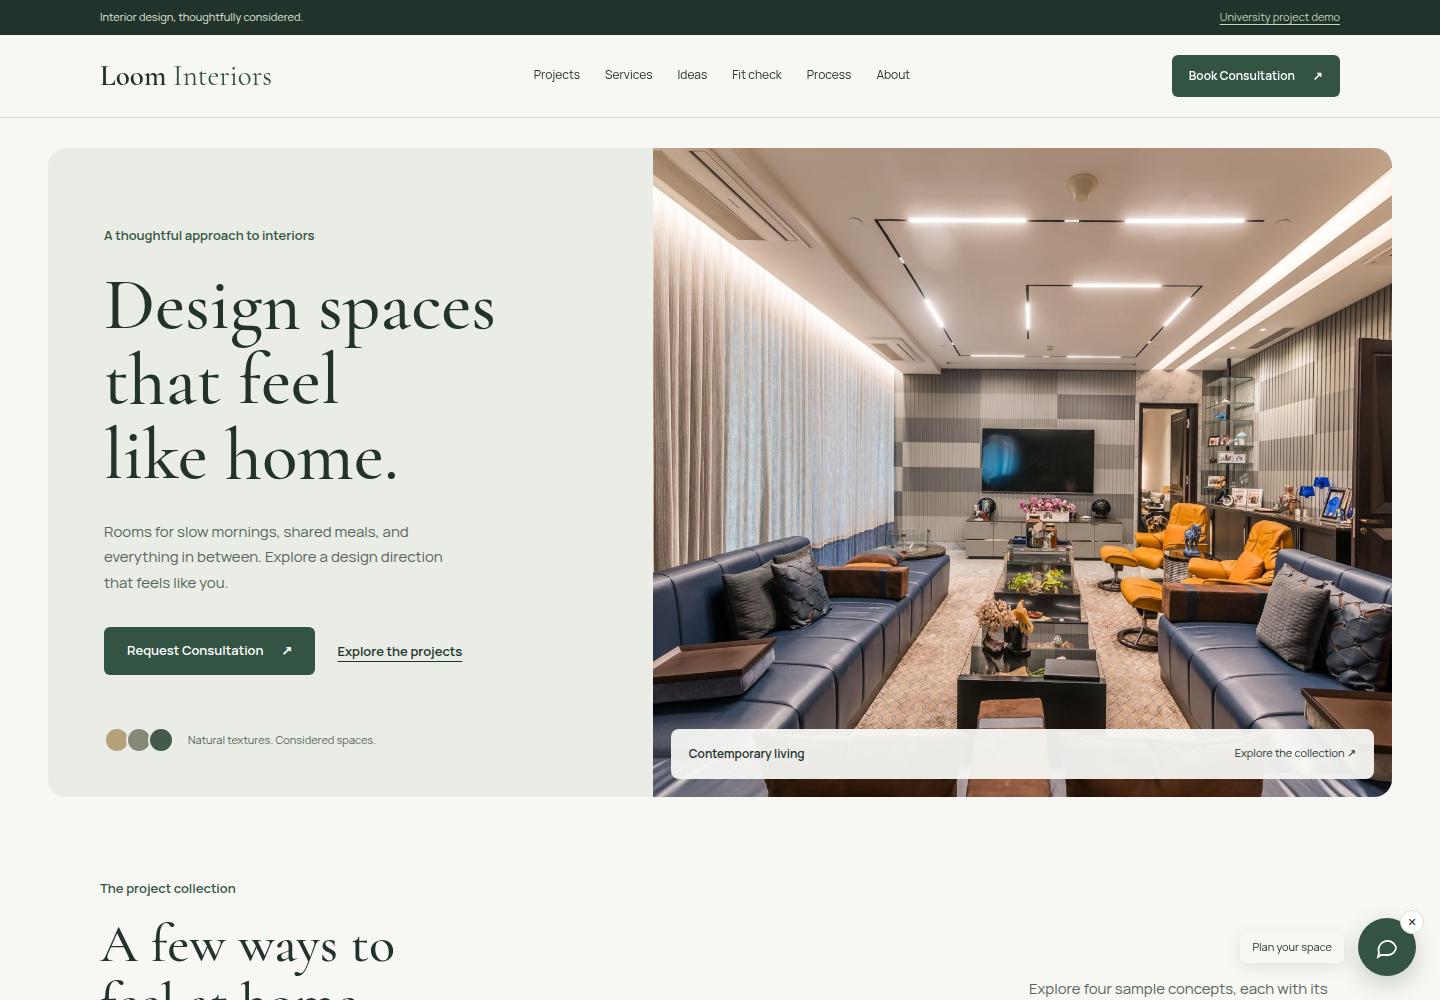
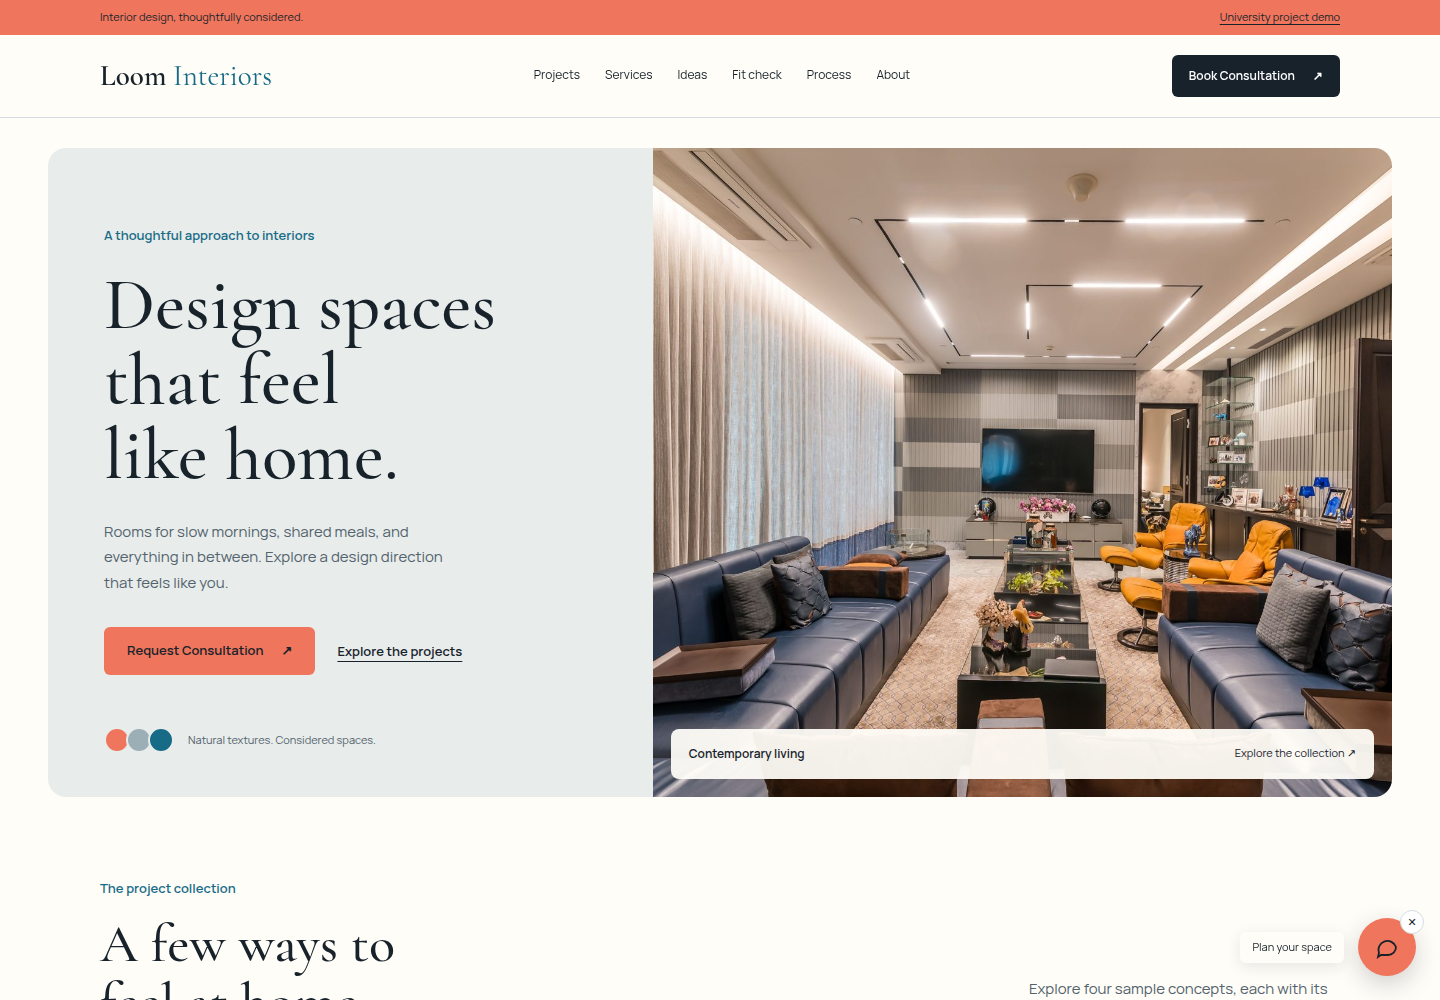
Restore preferred coral and blue palette

diff --git a/css/style.css b/css/style.css
@@ -1,13 +1,13 @@
 @import url('https://fonts.googleapis.com/css2?family=Cormorant+Garamond:wght@400;500;600&family=Manrope:wght@400;500;600;700&display=swap');
 
 :root {
-  --paper: #f7f8f4;
-  --stone: #e9ede5;
-  --ink: #22332b;
-  --muted: #57655c;
-  --forest: #345443;
-  --brass: #b5a17b;
-  --line: #d6ded3;
+  --paper: #fffdf8;
+  --stone: #e8eceb;
+  --ink: #17222a;
+  --muted: #53636d;
+  --blue: #176b87;
+  --coral: #ef765d;
+  --line: #d4dcdf;
   --serif: 'Cormorant Garamond', Georgia, serif;
   --sans: 'Manrope', Arial, sans-serif;
   --content: 1240px;
@@ -25,35 +25,37 @@ h1, h2, h3 { font-family: var(--serif); font-weight: 500; line-height: 1.08; tex
 h2 { font-size: clamp(36px, 4vw, 54px); }
 h3 { font-size: 28px; }
 p { text-wrap: pretty; }
-::selection { background: #d0d9c3; }
-:focus-visible { outline: 3px solid #87733e; outline-offset: 5px; }
+::selection { background: #f4c5b9; }
+:focus-visible { outline: 3px solid #176b87; outline-offset: 5px; }
 section[id], main[id] { scroll-margin-top: 100px; }
 section { max-width: var(--content); padding: 88px 0; margin: 0 auto; }
 main > section { width: calc(100% - 96px); }
 .skip-link { position: fixed; top: -100px; left: 16px; z-index: 50; background: white; padding: 12px 20px; }
 .skip-link:focus { top: 12px; }
-.kicker, .hero-eyebrow { color: var(--forest); font-size: 13px; font-weight: 600; margin-bottom: 16px; }
+.kicker, .hero-eyebrow { color: var(--blue); font-size: 13px; font-weight: 600; margin-bottom: 16px; }
 .section-head { display: flex; gap: 48px; align-items: flex-end; justify-content: space-between; margin-bottom: 36px; }
 .section-head h2 { max-width: 17ch; }
 .section-head > p { max-width: 34ch; color: var(--muted); margin-bottom: 5px; }
 .btn-coral, .btn-dark, .nav-contact, .btn-light, .btn-ghost { display: inline-flex; justify-content: center; align-items: center; gap: 18px; min-height: 48px; padding: 13px 22px; border-radius: 6px; border: 1px solid transparent; font: 600 13px/1.5 var(--sans); text-align: center; transition: background .16s, color .16s; }
-.btn-coral, .btn-dark, .nav-contact { background: var(--forest); color: white; }
-.btn-coral:hover, .btn-dark:hover, .nav-contact:hover { background: #223e30; }
+.btn-coral { background: var(--coral); color: var(--ink); }
+.btn-dark, .nav-contact { background: var(--ink); color: white; }
+.btn-coral:hover { background: #e7674e; }
+.btn-dark:hover, .nav-contact:hover { background: var(--blue); }
 .btn-ghost { color: var(--ink); border-color: var(--line); background: transparent; }
 .btn-ghost:hover { background: var(--stone); }
 .btn-light { color: var(--ink); background: var(--paper); }
-.btn-light:hover { background: #dce4d6; }
+.btn-light:hover { background: #dde5e9; }
 .hero-secondary, .text-button { text-decoration: underline; text-underline-offset: 5px; font-size: 13px; font-weight: 600; }
-.text-button { border: 0; background: transparent; color: var(--forest); padding: 8px 0; }
-.offer-bar { background: var(--ink); color: #e6eadf; display: flex; justify-content: space-between; padding: 8px max(48px, calc((100% - var(--content)) / 2)); font-size: 11px; }
-.offer-bar a { color: #c8d6bc; text-decoration: underline; text-underline-offset: 3px; }
-header { position: sticky; top: 0; z-index: 20; background: rgba(247,248,244,.97); border-bottom: 1px solid var(--line); }
+.text-button { border: 0; background: transparent; color: var(--blue); padding: 8px 0; }
+.offer-bar { background: var(--coral); color: var(--ink); display: flex; justify-content: space-between; padding: 8px max(48px, calc((100% - var(--content)) / 2)); font-size: 11px; }
+.offer-bar a { color: var(--ink); text-decoration: underline; text-underline-offset: 3px; }
+header { position: sticky; top: 0; z-index: 20; background: rgba(255,253,248,.97); border-bottom: 1px solid var(--line); }
 .nav { max-width: var(--content); margin: auto; display: flex; align-items: center; justify-content: space-between; gap: 32px; padding: 20px 0; }
 .wordmark { font: 600 29px/1 var(--serif); white-space: nowrap; }
-.wordmark em { font-style: normal; font-weight: 400; color: var(--forest); }
+.wordmark em { font-style: normal; font-weight: 400; color: var(--blue); }
 .nav-links { display: flex; gap: 25px; font-size: 12px; }
 .nav-links a { padding: 7px 0; border-bottom: 1px solid transparent; }
-.nav-links a:hover, .nav-links a[aria-current] { border-color: var(--forest); }
+.nav-links a:hover, .nav-links a[aria-current] { border-color: var(--blue); }
 .nav-actions { display: flex; align-items: center; gap: 12px; }
 .nav-contact { min-height: 42px; padding: 10px 16px; font-size: 12px; white-space: nowrap; }
 .menu-btn { display: none; width: 42px; height: 42px; border: 1px solid var(--line); border-radius: 6px; background: transparent; color: var(--ink); font-size: 22px; }
@@ -65,12 +67,12 @@ header { position: sticky; top: 0; z-index: 20; background: rgba(247,248,244,.97
 .hero-cta { display: flex; align-items: center; flex-wrap: wrap; gap: 22px; margin: 32px 0; }
 .hero-footnote { display: flex; align-items: center; gap: 14px; margin-top: auto; color: var(--muted); font-size: 11px; padding-top: 20px; }
 .material-samples { display: flex; padding-left: 4px; }
-.material-samples i { height: 26px; width: 26px; border-radius: 50%; background: #b5a17b; border: 2px solid var(--stone); margin-left: -4px; }
-.material-samples i:nth-child(2) { background: #858975; }
-.material-samples i:nth-child(3) { background: #455b49; }
+.material-samples i { height: 26px; width: 26px; border-radius: 50%; background: #ef765d; border: 2px solid var(--stone); margin-left: -4px; }
+.material-samples i:nth-child(2) { background: #9caeb6; }
+.material-samples i:nth-child(3) { background: #176b87; }
 .hero-image { position: relative; min-width: 0; }
 .hero-image > img { height: 100%; object-fit: cover; }
-.hero-image-caption { position: absolute; bottom: 18px; left: 18px; right: 18px; padding: 15px 18px; background: rgba(247,248,244,.94); border-radius: 8px; display: flex; justify-content: space-between; align-items: center; gap: 12px; font-size: 12px; }
+.hero-image-caption { position: absolute; bottom: 18px; left: 18px; right: 18px; padding: 15px 18px; background: rgba(255,253,248,.94); border-radius: 8px; display: flex; justify-content: space-between; align-items: center; gap: 12px; font-size: 12px; }
 .hero-image-caption > span { font-weight: 600; }
 .hero-image-caption a { font-size: 11px; }
 #portfolio { padding-top: 8px; }
@@ -81,13 +83,13 @@ header { position: sticky; top: 0; z-index: 20; background: rgba(247,248,244,.97
 .project:nth-child(3) { height: 340px; }
 .project:nth-child(4) { height: 370px; }
 .project-photo { height: 100%; object-fit: cover; }
-.project::after { content: ''; position: absolute; inset: 38% 0 0; background: linear-gradient(transparent, rgba(10,20,14,.82)); pointer-events: none; }
+.project::after { content: ''; position: absolute; inset: 38% 0 0; background: linear-gradient(transparent, rgba(10,18,24,.82)); pointer-events: none; }
 .project-label { position: absolute; bottom: 24px; left: 26px; right: 26px; color: white; z-index: 1; }
 .project-label .name { font: 500 30px/1.2 var(--serif); margin-bottom: 5px; }
-.project-label .loc { font-size: 11px; color: #eef2e8; }
-.view-project { display: inline-block; margin-top: 16px; background: none; color: white; padding: 4px 0; border: 0; border-bottom: 1px solid #c9d7bf; font: 600 12px var(--sans); }
+.project-label .loc { font-size: 11px; color: #edf2f5; }
+.view-project { display: inline-block; margin-top: 16px; background: none; color: white; padding: 4px 0; border: 0; border-bottom: 1px solid #e1c0b6; font: 600 12px var(--sans); }
 .project-dialog { width: min(820px, calc(100% - 32px)); max-height: calc(100dvh - 32px); overflow: auto; margin: auto; border: 0; border-radius: 16px; padding: 0; color: var(--ink); background: var(--paper); }
-.project-dialog::backdrop { background: rgba(15,26,18,.65); }
+.project-dialog::backdrop { background: rgba(15,25,32,.65); }
 .project-dialog > img { height: 340px; object-fit: cover; }
 .dialog-close { position: absolute; top: 16px; right: 16px; width: 42px; height: 42px; background: white; color: var(--ink); border: 0; border-radius: 50%; font-size: 28px; }
 .dialog-copy { padding: 32px; }
@@ -102,7 +104,7 @@ header { position: sticky; top: 0; z-index: 20; background: rgba(247,248,244,.97
 .service-copy h3 { font-size: 27px; display: flex; justify-content: space-between; align-items: center; }
 .service-copy h3 span { font-family: var(--sans); font-size: 18px; }
 .service-copy p { color: var(--muted); font-size: 12px; margin-top: 8px; }
-.service-photo-card:hover h3 { color: #657746; }
+.service-photo-card:hover h3 { color: #176b87; }
 .trending-section { background: var(--stone); border-radius: 18px; padding: 48px; }
 .trending-head { display: grid; grid-template-columns: 1fr 1fr; column-gap: 48px; }
 .trending-head .kicker { grid-column: 1 / -1; margin: 0; }
@@ -115,54 +117,54 @@ header { position: sticky; top: 0; z-index: 20; background: rgba(247,248,244,.97
 .idea-copy h3 { font-size: 28px; }
 .idea-copy p { color: var(--muted); font-size: 12px; margin: 12px 0 16px; }
 .idea-copy a { font-size: 12px; font-weight: 600; text-decoration: underline; text-underline-offset: 5px; }
-main > .fit-check { width: 100%; max-width: none; background: var(--ink); color: #f2f5eb; margin-top: 88px; padding: 72px max(48px, calc((100% - var(--content)) / 2)); }
+main > .fit-check { width: 100%; max-width: none; background: var(--ink); color: #f7f7f4; margin-top: 88px; padding: 72px max(48px, calc((100% - var(--content)) / 2)); }
 .fit-check-grid { display: grid; grid-template-columns: .8fr 1.2fr; gap: 64px; align-items: center; }
-.fit-check .kicker { color: #bfd1ad; }
+.fit-check .kicker { color: #efaa99; }
 .fit-check h2 { max-width: 12ch; font-size: clamp(40px, 4.2vw, 60px); margin-bottom: 24px; }
-.fit-check-copy > p { color: #d1dacb; max-width: 40ch; font-size: 14px; }
+.fit-check-copy > p { color: #cbd8de; max-width: 40ch; font-size: 14px; }
 .fit-check-actions { display: flex; flex-wrap: wrap; align-items: center; gap: 16px; margin-top: 28px; }
-.fit-check-actions .btn-coral { background: #d4dfc7; color: var(--ink); }
-.fit-check-actions .btn-ghost { color: white; border-color: #899782; }
-.camera-note { font-size: 11px; color: #d1dacb; }
-.camera-status { margin-top: 16px; color: #e6d6a4 !important; font-size: 12px !important; }
-.camera-stage { height: 400px; background: #53654e; border-radius: 14px; overflow: hidden; position: relative; }
+.fit-check-actions .btn-coral { background: #ef765d; color: var(--ink); }
+.fit-check-actions .btn-ghost { color: white; border-color: #91a7b1; }
+.camera-note { font-size: 11px; color: #cbd8de; }
+.camera-status { margin-top: 16px; color: #f6bcab !important; font-size: 12px !important; }
+.camera-stage { height: 400px; background: #29434a; border-radius: 14px; overflow: hidden; position: relative; }
 .camera-feed, .camera-overlay { position: absolute; inset: 0; width: 100%; height: 100%; object-fit: cover; }
 .camera-feed { opacity: 0; }
 .camera-stage--ready .camera-feed { opacity: 1; }
 .camera-overlay { opacity: 1; }
 .camera-stage--ready .camera-overlay { opacity: .65; mix-blend-mode: color; }
-.camera-placeholder { position: absolute; inset: 0; z-index: 2; background: rgba(20,30,20,.72); display: flex; flex-direction: column; align-items: center; justify-content: center; gap: 16px; }
-.camera-stage-label { position: absolute; z-index: 3; bottom: 16px; left: 16px; right: 16px; background: rgba(247,248,244,.95); color: var(--ink); border-radius: 8px; padding: 14px 16px; display: flex; justify-content: space-between; gap: 16px; font-size: 12px; }
+.camera-placeholder { position: absolute; inset: 0; z-index: 2; background: rgba(20,30,38,.72); display: flex; flex-direction: column; align-items: center; justify-content: center; gap: 16px; }
+.camera-stage-label { position: absolute; z-index: 3; bottom: 16px; left: 16px; right: 16px; background: rgba(255,253,248,.95); color: var(--ink); border-radius: 8px; padding: 14px 16px; display: flex; justify-content: space-between; gap: 16px; font-size: 12px; }
 .camera-stage-label strong { font-weight: 600; }
 .look-picker { display: grid; grid-template-columns: repeat(4, 1fr); gap: 16px; margin-top: 32px; }
-.look-option { display: flex; align-items: center; gap: 14px; padding: 12px; background: #304338; color: #edf2e7; border: 1px solid #53694f; border-radius: 8px; text-align: left; font-size: 12px; }
+.look-option { display: flex; align-items: center; gap: 14px; padding: 12px; background: #253943; color: #eef3f5; border: 1px solid #506975; border-radius: 8px; text-align: left; font-size: 12px; }
 .look-option img { width: 48px; height: 48px; border-radius: 5px; object-fit: cover; }
-.look-option.active { background: #e0e7d6; color: var(--ink); border-color: #e0e7d6; }
-.look-summary { display: flex; justify-content: space-between; align-items: center; gap: 20px; margin-top: 24px; font-size: 13px; color: #d1dacb; }
+.look-option.active { background: #f4b2a1; color: var(--ink); border-color: #f4b2a1; }
+.look-summary { display: flex; justify-content: space-between; align-items: center; gap: 20px; margin-top: 24px; font-size: 13px; color: #cbd8de; }
 .process-roadmap { display: grid; grid-template-columns: repeat(5, 1fr); gap: 22px; }
 .process-step { min-width: 0; }
 .process-visual { height: 160px; border-radius: 10px; overflow: hidden; }
 .process-visual img { height: 100%; object-fit: cover; }
 .process-body { padding-top: 20px; }
-.process-num { font-size: 11px; color: var(--forest); margin-bottom: 10px; }
+.process-num { font-size: 11px; color: var(--blue); margin-bottom: 10px; }
 .process-step h3 { font-size: 25px; margin-bottom: 12px; }
 .process-step p { color: var(--muted); font-size: 12px; }
 #philosophy { padding-top: 0; }
 .philosophy { display: grid; grid-template-columns: 1fr 1.1fr; gap: 80px; padding-top: 16px; }
-.big-quote { font: 400 36px/1.25 var(--serif); padding-left: 28px; border-left: 2px solid var(--brass); }
+.big-quote { font: 400 36px/1.25 var(--serif); padding-left: 28px; border-left: 2px solid var(--coral); }
 .philosophy .body p { color: var(--muted); font-size: 13px; margin-bottom: 16px; }
 main > .consult { width: 100%; max-width: none; background: var(--stone); padding: 80px max(48px, calc((100% - var(--content)) / 2)); }
 .consult-grid { display: grid; grid-template-columns: .9fr 1.1fr; gap: 100px; align-items: start; }
 .consult h2 { max-width: 13ch; margin-bottom: 24px; }
 .consult-grid > div > p { color: var(--muted); max-width: 42ch; }
-.demo-note { margin-top: 28px; font-size: 12px; border-left: 2px solid var(--brass); padding-left: 16px; }
+.demo-note { margin-top: 28px; font-size: 12px; border-left: 2px solid var(--coral); padding-left: 16px; }
 .consult-form { background: var(--paper); border: 1px solid var(--line); border-radius: 14px; padding: 32px; display: grid; gap: 22px; }
 .field label { display: block; font-size: 12px; font-weight: 600; margin-bottom: 8px; }
-.field input { width: 100%; min-width: 0; border: 1px solid #ccd5c7; background: white; color: var(--ink); border-radius: 6px; height: 48px; padding: 10px 14px; font-size: 13px; }
-.field input::placeholder { color: #667060; }
+.field input { width: 100%; min-width: 0; border: 1px solid #cbd6db; background: white; color: var(--ink); border-radius: 6px; height: 48px; padding: 10px 14px; font-size: 13px; }
+.field input::placeholder { color: #64737b; }
 .field input:user-invalid { border-color: #ac553e; }
 .consult-form > .btn-dark { width: 100%; }
-.form-result { border: 1px solid #bdcdb0; border-radius: 8px; background: #e9efe3; padding: 18px; font-size: 13px; }
+.form-result { border: 1px solid #b4cbd5; border-radius: 8px; background: #e9f0f3; padding: 18px; font-size: 13px; }
 .form-result p { margin: 8px 0 12px; }
 .form-result button { margin-top: 8px; padding: 10px 14px; }
 .form-result button + button { margin-left: 8px; }
@@ -171,41 +173,41 @@ main > .consult { width: 100%; max-width: none; background: var(--stone); paddin
 .notes-grid { display: grid; grid-template-columns: 1fr 1fr; gap: 48px; margin-bottom: 16px; }
 .notes-grid h3 { font-size: 25px; margin-bottom: 12px; }
 .notes-grid p { font-size: 12px; color: var(--muted); max-width: 65ch; }
-footer { background: var(--ink); color: #e9efdf; padding: 56px max(48px, calc((100% - var(--content)) / 2)) 24px; }
+footer { background: var(--ink); color: #f0f2f4; padding: 56px max(48px, calc((100% - var(--content)) / 2)) 24px; }
 .footer-grid { display: grid; grid-template-columns: 2fr 1fr 1fr 1.5fr; gap: 48px; }
-footer .wordmark em { color: #b8ccaa; }
-footer p { font-size: 12px; color: #c9d3c3; margin-top: 20px; max-width: 33ch; }
+footer .wordmark em { color: #efaa99; }
+footer p { font-size: 12px; color: #c9d5db; margin-top: 20px; max-width: 33ch; }
 footer h4 { font-size: 12px; font-weight: 600; margin-bottom: 18px; }
-footer ul { list-style: none; font-size: 12px; color: #c9d3c3; }
+footer ul { list-style: none; font-size: 12px; color: #c9d5db; }
 footer li { margin-bottom: 9px; }
 footer a:hover { text-decoration: underline; text-underline-offset: 4px; }
-.foot-bottom { display: flex; justify-content: space-between; gap: 20px; font-size: 10px; color: #bdcab5; border-top: 1px solid #435644; padding-top: 20px; margin-top: 48px; }
+.foot-bottom { display: flex; justify-content: space-between; gap: 20px; font-size: 10px; color: #bfccd3; border-top: 1px solid #3d535e; padding-top: 20px; margin-top: 48px; }
 .scroll-progress { position: fixed; top: 0; left: 0; right: 0; z-index: 30; pointer-events: none; }
 .scroll-progress-label, .scroll-progress-end { display: none; }
 .scroll-progress-track { display: block; height: 3px; }
-.scroll-progress-fill { display: block; background: var(--brass); height: 3px !important; }
+.scroll-progress-fill { display: block; background: var(--coral); height: 3px !important; }
 .chat-widget { position: fixed; right: 24px; bottom: max(24px, env(safe-area-inset-bottom)); z-index: 40; }
-.chat-tip { position: absolute; right: 72px; top: 14px; white-space: nowrap; font-size: 11px; background: var(--paper); color: var(--ink); padding: 6px 12px; border-radius: 6px; box-shadow: 0 4px 15px rgba(20,35,20,.1); pointer-events: none; }
-.chat-fab { border: 0; width: 58px; height: 58px; border-radius: 50%; background: var(--forest); color: white; display: grid; place-items: center; box-shadow: 0 8px 24px rgba(20,35,20,.2); touch-action: none; }
+.chat-tip { position: absolute; right: 72px; top: 14px; white-space: nowrap; font-size: 11px; background: var(--paper); color: var(--ink); padding: 6px 12px; border-radius: 6px; box-shadow: 0 4px 15px rgba(20,30,38,.1); pointer-events: none; }
+.chat-fab { border: 0; width: 58px; height: 58px; border-radius: 50%; background: var(--coral); color: var(--ink); display: grid; place-items: center; box-shadow: 0 8px 24px rgba(20,30,38,.2); touch-action: none; }
 .chat-fab svg { width: 24px; height: 24px; pointer-events: none; }
 .chat-remove { position: absolute; top: -8px; right: -8px; width: 24px; height: 24px; border: 1px solid var(--line); background: white; color: var(--ink); border-radius: 50%; font-size: 11px; }
-.chat-panel { position: fixed; right: 24px; bottom: 100px; width: min(340px, calc(100vw - 32px)); max-height: calc(100dvh - 120px); overflow-y: auto; background: var(--paper); color: var(--ink); border: 1px solid var(--line); border-radius: 14px; box-shadow: 0 20px 70px rgba(20,35,20,.2); }
+.chat-panel { position: fixed; right: 24px; bottom: 100px; width: min(340px, calc(100vw - 32px)); max-height: calc(100dvh - 120px); overflow-y: auto; background: var(--paper); color: var(--ink); border: 1px solid var(--line); border-radius: 14px; box-shadow: 0 20px 70px rgba(20,30,38,.2); }
 .closed .chat-panel { display: none; }
-.chat-panel-head { display: flex; align-items: center; justify-content: space-between; padding: 16px 20px; background: var(--forest); color: white; font-size: 14px; }
+.chat-panel-head { display: flex; align-items: center; justify-content: space-between; padding: 16px 20px; background: var(--blue); color: white; font-size: 14px; }
 .chat-panel-head button { border: 0; width: 28px; height: 28px; color: white; background: transparent; }
 .chat-panel-body { padding: 20px; }
 .chat-bubble { font-size: 12px; padding: 14px; border-radius: 9px; background: var(--stone); margin-bottom: 16px; }
-.who { font-size: 10px; color: var(--forest); font-weight: 700; margin-bottom: 7px; }
+.who { font-size: 10px; color: var(--blue); font-weight: 700; margin-bottom: 7px; }
 .chat-options { display: flex; flex-wrap: wrap; gap: 8px; margin-bottom: 16px; }
 .chat-options button { background: white; color: var(--ink); border: 1px solid var(--line); padding: 8px 12px; border-radius: 6px; font-size: 11px; }
-.chat-options button[aria-pressed=true] { background: var(--forest); color: white; }
+.chat-options button[aria-pressed=true] { background: var(--blue); color: white; }
 .chat-demo-note { color: var(--muted); font-size: 10px; }
-.chat-start { display: flex; align-items: center; justify-content: center; gap: 10px; margin: 0 20px 20px; background: var(--forest); color: white; border-radius: 6px; padding: 12px; font-size: 12px; }
+.chat-start { display: flex; align-items: center; justify-content: center; gap: 10px; margin: 0 20px 20px; background: var(--blue); color: white; border-radius: 6px; padding: 12px; font-size: 12px; }
 .chat-start svg { width: 18px; height: 18px; }
 @media (max-width: 1350px) { .nav { margin: 0 48px; gap: 24px; } .nav-links { gap: 18px; } }
 @media (max-width: 1100px) {
   .menu-btn { display: block; }
-  .nav-links { display: none; position: absolute; left: 24px; right: 24px; top: calc(100% + 8px); background: var(--paper); padding: 20px 24px; border: 1px solid var(--line); border-radius: 12px; box-shadow: 0 16px 30px rgba(20,35,20,.1); }
+  .nav-links { display: none; position: absolute; left: 24px; right: 24px; top: calc(100% + 8px); background: var(--paper); padding: 20px 24px; border: 1px solid var(--line); border-radius: 12px; box-shadow: 0 16px 30px rgba(20,30,38,.1); }
   .nav-links.mobile-open { display: grid; grid-template-columns: 1fr 1fr; gap: 12px 24px; }
   .hero-copy { padding: 48px 32px 32px; }
   .hero-copy h1 { font-size: 66px; }

diff --git a/docs/ui-polish.md b/docs/ui-polish.md
@@ -2,7 +2,7 @@
 
 The page now follows one path: explore project photographs, choose a room or style, and prepare a consultation brief.
 
-The palette uses spruce green, mineral grey, antique brass, and an off-white background. Cormorant Garamond carries headings and Manrope carries controls and body text. Large room photographs remain the main visual element.
+The palette uses the preferred coral and blue accents, slate text, and an off-white background. Cormorant Garamond carries headings and Manrope carries controls and body text. Large room photographs remain the main visual element.
 
 The previous page repeated studio statistics and room galleries, moved a service strip continuously, and displayed inactive designer controls. Those sections were removed. Navigation now stays in one position as you scroll, and project, service, style, and chat choices have visible results in the brief.
 
